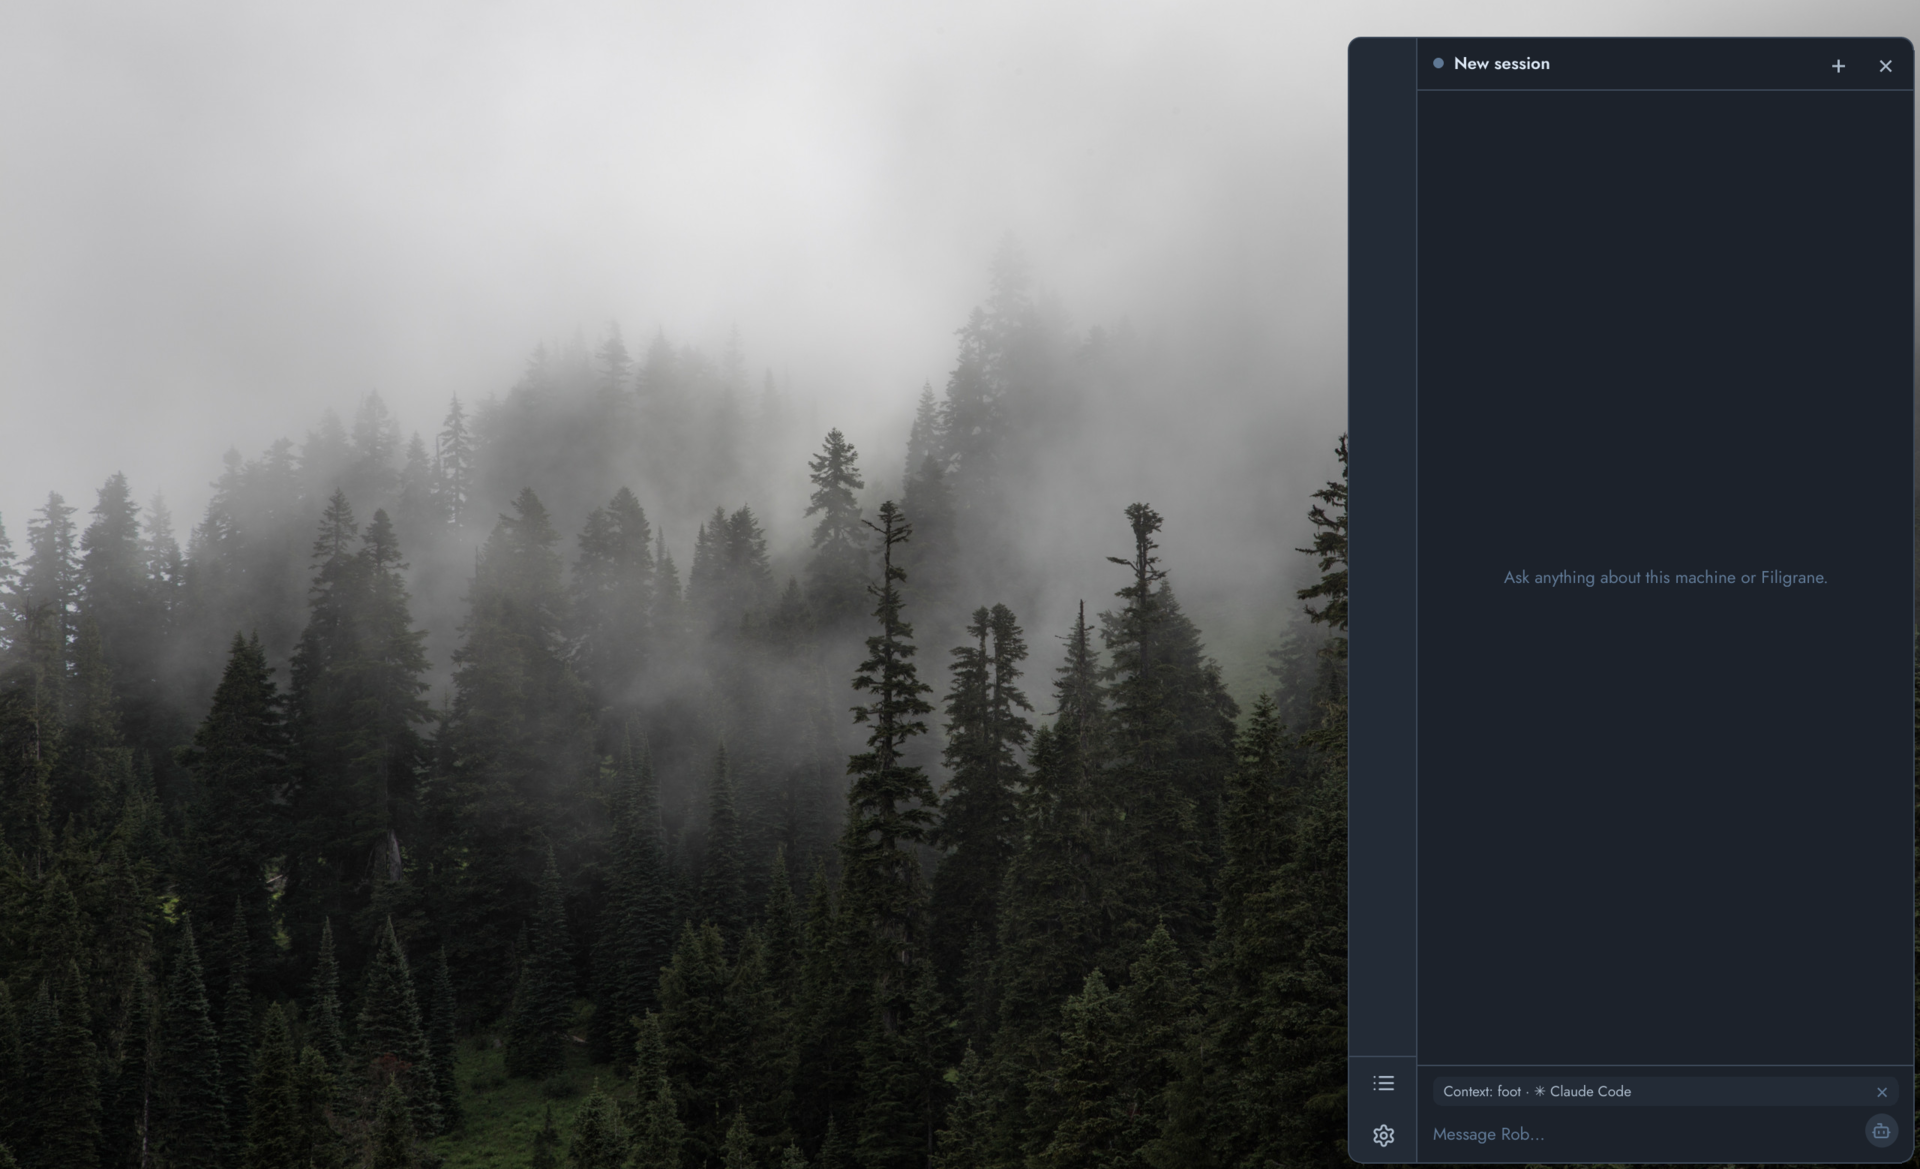
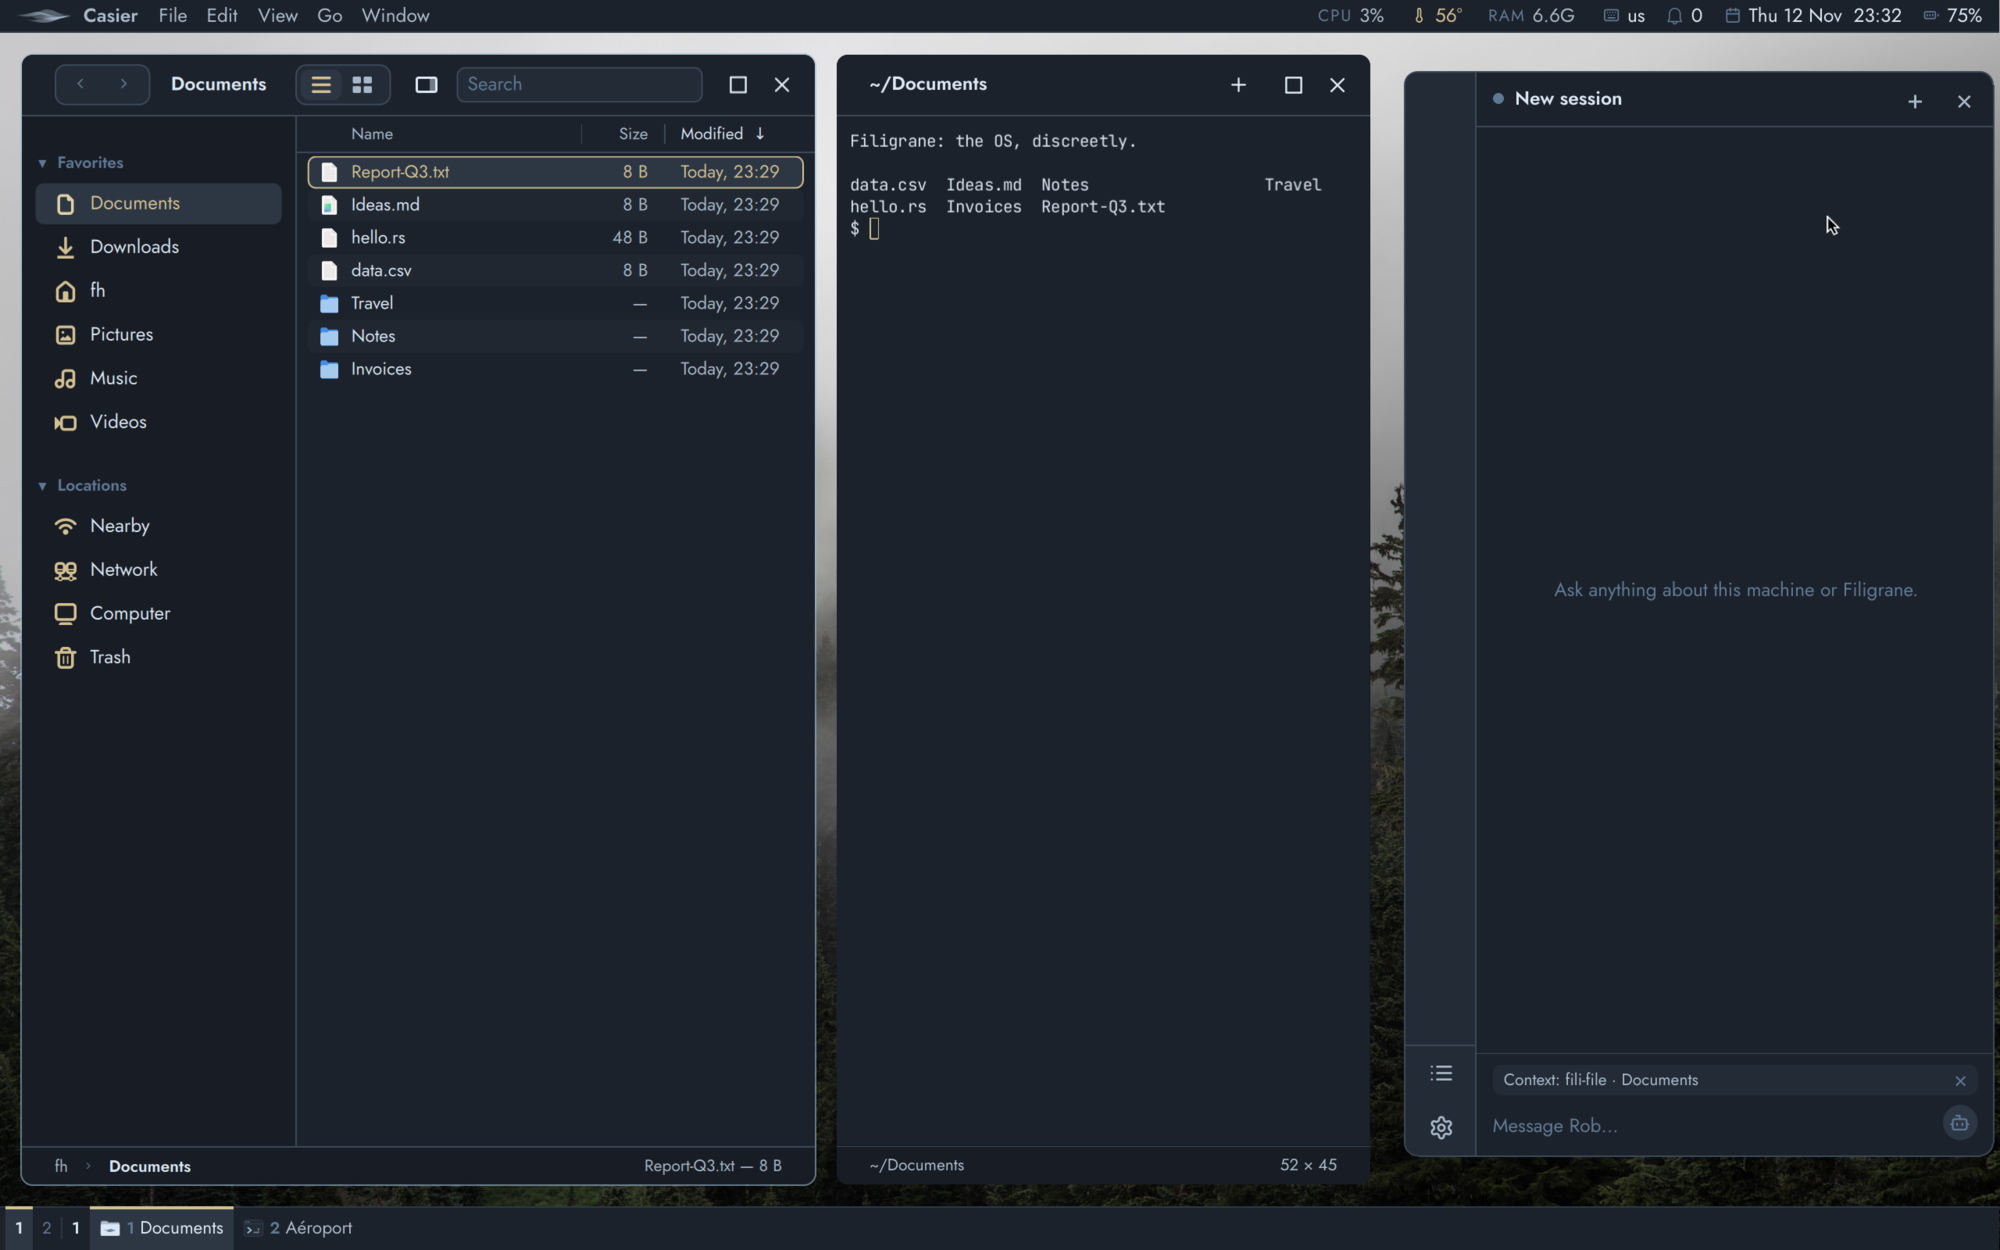
Organization profile: a current desktop screenshot (bar, Quai, Casier, Aéroport, Rob)

diff --git a/profile/README.md b/profile/README.md
@@ -8,7 +8,7 @@
 <p align="center"><em>The OS, discreetly.</em></p>
 
 <p align="center">
-  <img src="img/desktop.png" alt="The Filigrane desktop over a misty forest, with the Rob chat drawer open on the right" width="820">
+  <img src="img/desktop.png" alt="The Filigrane desktop: the bar, Casier, Aéroport and the Rob chat drawer over a misty forest, with the Quai at the bottom" width="820">
 </p>
 
 **Filigrane** is a light, modern Linux desktop built on [Void Linux](https://voidlinux.org) and the [niri](https://github.com/YaLTeR/niri) compositor, with its own shell and a handful of small native apps. The whole machine is described by one git repository, so any x86-64 PC, virtual machine or Intel Mac can replay it.
